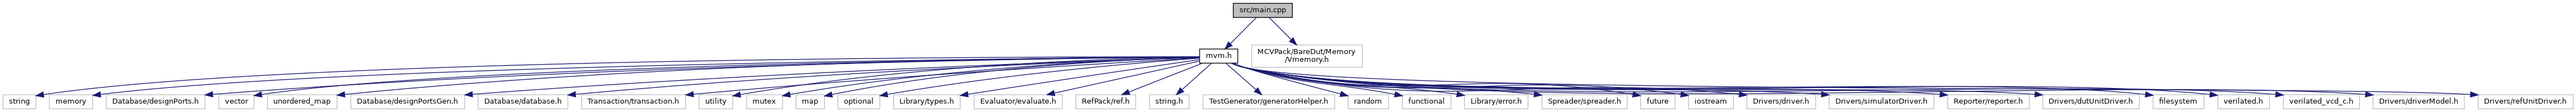
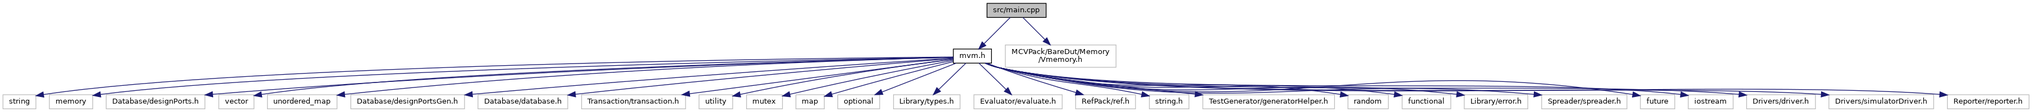
add more docs

diff --git a/docs/doxygen/html/mvm_8h_source.html b/docs/doxygen/html/mvm_8h_source.html
@@ -78,18 +78,16 @@ $(function() {
 <div class="line"><a name="l00007"></a><span class="lineno">    7</span>&#160;<span class="preprocessor">#include &quot;RefPack/ref.h&quot;</span></div>
 <div class="line"><a name="l00008"></a><span class="lineno">    8</span>&#160;<span class="preprocessor">#include &quot;TestGenerator/generatorHelper.h&quot;</span></div>
 <div class="line"><a name="l00009"></a><span class="lineno">    9</span>&#160;<span class="preprocessor">#include &quot;Spreader/spreader.h&quot;</span></div>
-<div class="line"><a name="l00010"></a><span class="lineno">   10</span>&#160;<span class="preprocessor">#include &quot;Drivers/dutUnitDriver.h&quot;</span></div>
-<div class="line"><a name="l00011"></a><span class="lineno">   11</span>&#160;<span class="preprocessor">#include &quot;Drivers/refUnitDriver.h&quot;</span></div>
-<div class="line"><a name="l00012"></a><span class="lineno">   12</span>&#160; </div>
-<div class="line"><a name="l00013"></a><span class="lineno">   13</span>&#160;<span class="keyword">using namespace </span>std;</div>
-<div class="line"><a name="l00014"></a><span class="lineno">   14</span>&#160;<span class="keyword">using namespace </span>MVM::Type;</div>
-<div class="line"><a name="l00015"></a><span class="lineno">   15</span>&#160;<span class="keyword">using namespace </span>MVM::Database;</div>
-<div class="line"><a name="l00016"></a><span class="lineno">   16</span>&#160;<span class="keyword">using namespace </span>MVM::Spreader;</div>
-<div class="line"><a name="l00017"></a><span class="lineno">   17</span>&#160;<span class="keyword">using namespace </span>MVM::Driver;</div>
-<div class="line"><a name="l00018"></a><span class="lineno">   18</span>&#160;<span class="keyword">using namespace </span>MVM::TestGenerator;</div>
-<div class="line"><a name="l00019"></a><span class="lineno">   19</span>&#160;<span class="keyword">using namespace </span>MVM::Transaction;</div>
-<div class="line"><a name="l00020"></a><span class="lineno">   20</span>&#160;<span class="keyword">using namespace </span>MVM::Reporter;</div>
-<div class="line"><a name="l00021"></a><span class="lineno">   21</span>&#160;<span class="keyword">using namespace </span>MVM::RefPack;</div>
+<div class="line"><a name="l00010"></a><span class="lineno">   10</span>&#160; </div>
+<div class="line"><a name="l00011"></a><span class="lineno">   11</span>&#160;<span class="keyword">using namespace </span>std;</div>
+<div class="line"><a name="l00012"></a><span class="lineno">   12</span>&#160;<span class="keyword">using namespace </span>MVM::Type;</div>
+<div class="line"><a name="l00013"></a><span class="lineno">   13</span>&#160;<span class="keyword">using namespace </span>MVM::Database;</div>
+<div class="line"><a name="l00014"></a><span class="lineno">   14</span>&#160;<span class="keyword">using namespace </span>MVM::Spreader;</div>
+<div class="line"><a name="l00015"></a><span class="lineno">   15</span>&#160;<span class="keyword">using namespace </span>MVM::Driver;</div>
+<div class="line"><a name="l00016"></a><span class="lineno">   16</span>&#160;<span class="keyword">using namespace </span>MVM::TestGenerator;</div>
+<div class="line"><a name="l00017"></a><span class="lineno">   17</span>&#160;<span class="keyword">using namespace </span>MVM::Transaction;</div>
+<div class="line"><a name="l00018"></a><span class="lineno">   18</span>&#160;<span class="keyword">using namespace </span>MVM::Reporter;</div>
+<div class="line"><a name="l00019"></a><span class="lineno">   19</span>&#160;<span class="keyword">using namespace </span>MVM::RefPack;</div>
 </div><!-- fragment --></div><!-- contents -->
 <!-- start footer part -->
 <hr class="footer"/><address class="footer"><small>

diff --git a/docs/doxygen/html/mvm_8h.html b/docs/doxygen/html/mvm_8h.html
@@ -76,14 +76,12 @@ $(function() {
 <code>#include &quot;RefPack/ref.h&quot;</code><br />
 <code>#include &quot;TestGenerator/generatorHelper.h&quot;</code><br />
 <code>#include &quot;Spreader/spreader.h&quot;</code><br />
-<code>#include &quot;Drivers/dutUnitDriver.h&quot;</code><br />
-<code>#include &quot;Drivers/refUnitDriver.h&quot;</code><br />
 </div><div class="textblock"><div class="dynheader">
 Include dependency graph for mvm.h:</div>
 <div class="dyncontent">
 <div class="center"><img src="mvm_8h__incl.png" border="0" usemap="#include_2mvm_8h" alt=""/></div>
 <map name="include_2mvm_8h" id="include_2mvm_8h">
-<area shape="rect" title=" " alt="" coords="2113,5,2231,32"/>
+<area shape="rect" title=" " alt="" coords="1674,5,1793,32"/>
 <area shape="rect" title=" " alt="" coords="5,80,64,107"/>
 <area shape="rect" title=" " alt="" coords="88,80,165,107"/>
 <area shape="rect" title=" " alt="" coords="189,80,365,107"/>
@@ -110,12 +108,6 @@ Include dependency graph for mvm.h:</div>
 <area shape="rect" title=" " alt="" coords="3113,80,3236,107"/>
 <area shape="rect" title=" " alt="" coords="3260,80,3447,107"/>
 <area shape="rect" title=" " alt="" coords="3471,80,3617,107"/>
-<area shape="rect" title=" " alt="" coords="3641,80,3813,107"/>
-<area shape="rect" title=" " alt="" coords="3837,80,3928,107"/>
-<area shape="rect" title=" " alt="" coords="3953,80,4045,107"/>
-<area shape="rect" title=" " alt="" coords="4069,80,4205,107"/>
-<area shape="rect" title=" " alt="" coords="4229,80,4392,107"/>
-<area shape="rect" title=" " alt="" coords="4417,80,4586,107"/>
 </map>
 </div>
 </div><div class="textblock"><div class="dynheader">

diff --git a/docs/doxygen/html/main_8cpp.html b/docs/doxygen/html/main_8cpp.html
@@ -79,9 +79,9 @@ Include dependency graph for main.cpp:</div>
 <div class="dyncontent">
 <div class="center"><img src="main_8cpp__incl.png" border="0" usemap="#src_2main_8cpp" alt=""/></div>
 <map name="src_2main_8cpp" id="src_2main_8cpp">
-<area shape="rect" title=" " alt="" coords="2198,5,2303,32"/>
-<area shape="rect" href="mvm_8h.html" title=" " alt="" coords="2138,87,2206,114"/>
-<area shape="rect" title=" " alt="" coords="2231,80,2428,121"/>
+<area shape="rect" title=" " alt="" coords="1759,5,1865,32"/>
+<area shape="rect" href="mvm_8h.html" title=" " alt="" coords="1699,87,1767,114"/>
+<area shape="rect" title=" " alt="" coords="1792,80,1989,121"/>
 <area shape="rect" title=" " alt="" coords="5,169,64,196"/>
 <area shape="rect" title=" " alt="" coords="88,169,165,196"/>
 <area shape="rect" title=" " alt="" coords="189,169,365,196"/>
@@ -108,12 +108,6 @@ Include dependency graph for main.cpp:</div>
 <area shape="rect" title=" " alt="" coords="3113,169,3236,196"/>
 <area shape="rect" title=" " alt="" coords="3260,169,3447,196"/>
 <area shape="rect" title=" " alt="" coords="3471,169,3617,196"/>
-<area shape="rect" title=" " alt="" coords="3641,169,3813,196"/>
-<area shape="rect" title=" " alt="" coords="3837,169,3928,196"/>
-<area shape="rect" title=" " alt="" coords="3953,169,4045,196"/>
-<area shape="rect" title=" " alt="" coords="4069,169,4205,196"/>
-<area shape="rect" title=" " alt="" coords="4229,169,4392,196"/>
-<area shape="rect" title=" " alt="" coords="4417,169,4586,196"/>
 </map>
 </div>
 </div><table class="memberdecls">
